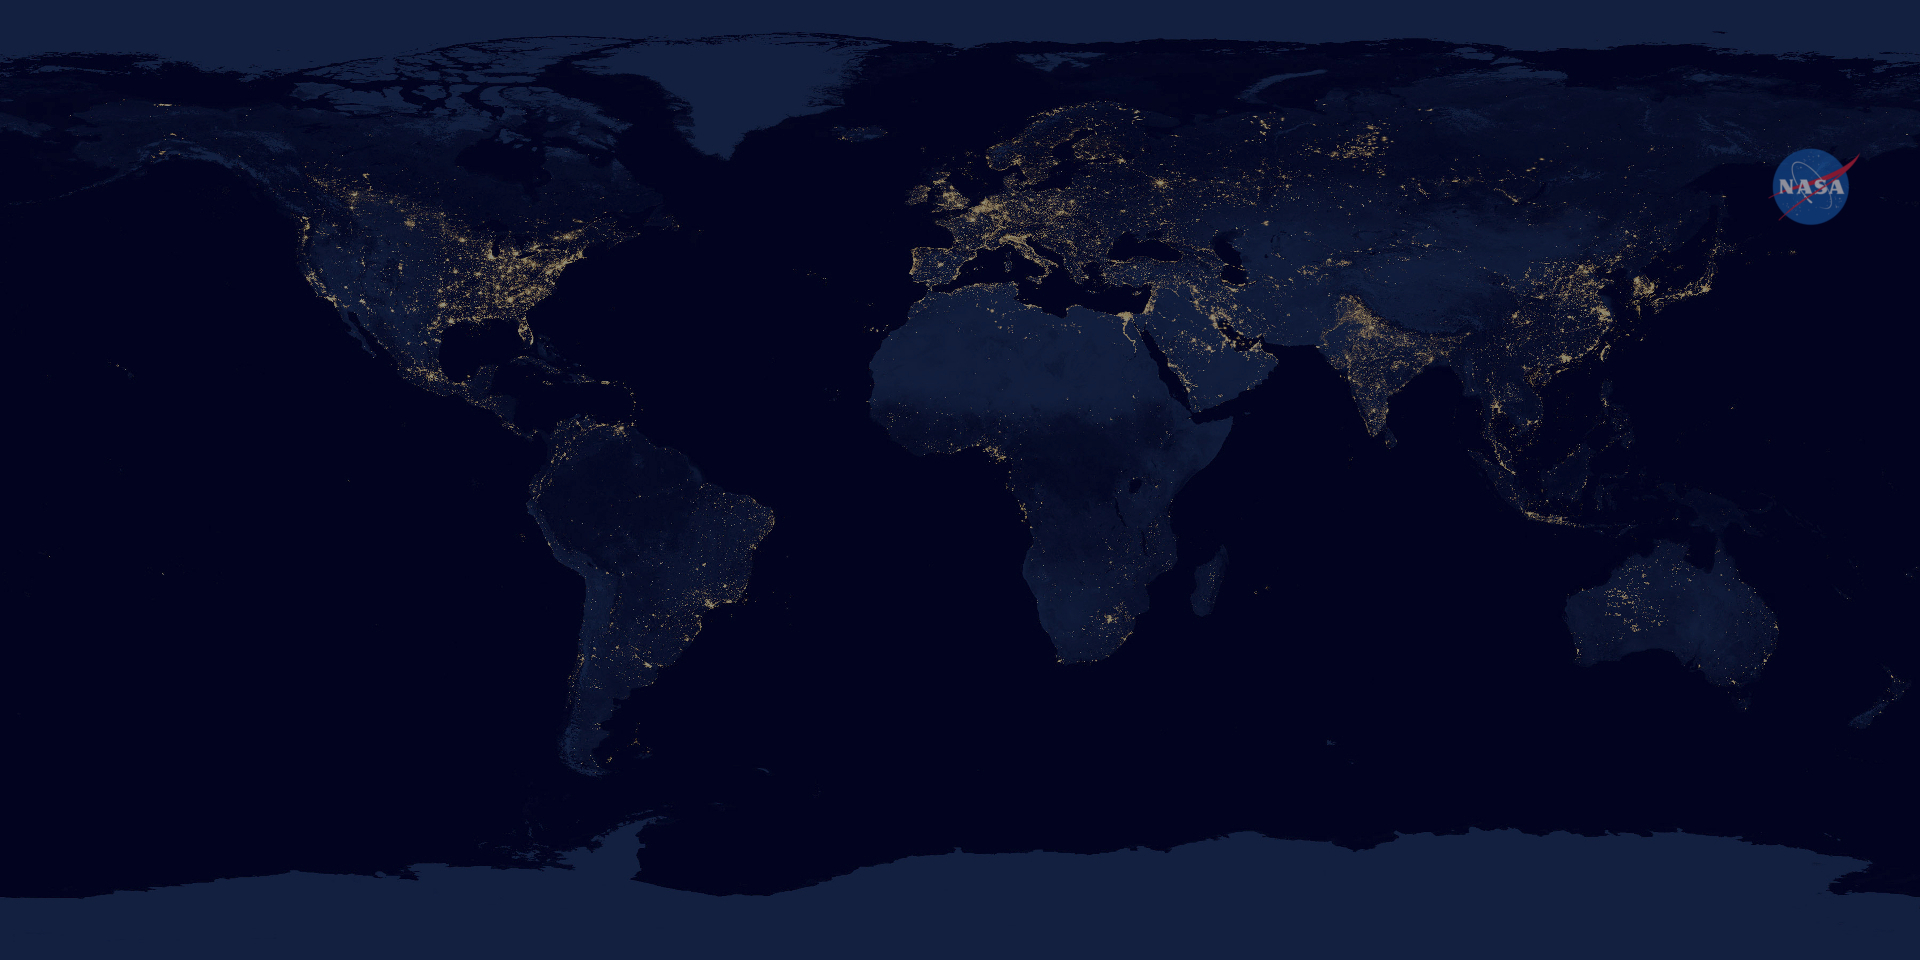
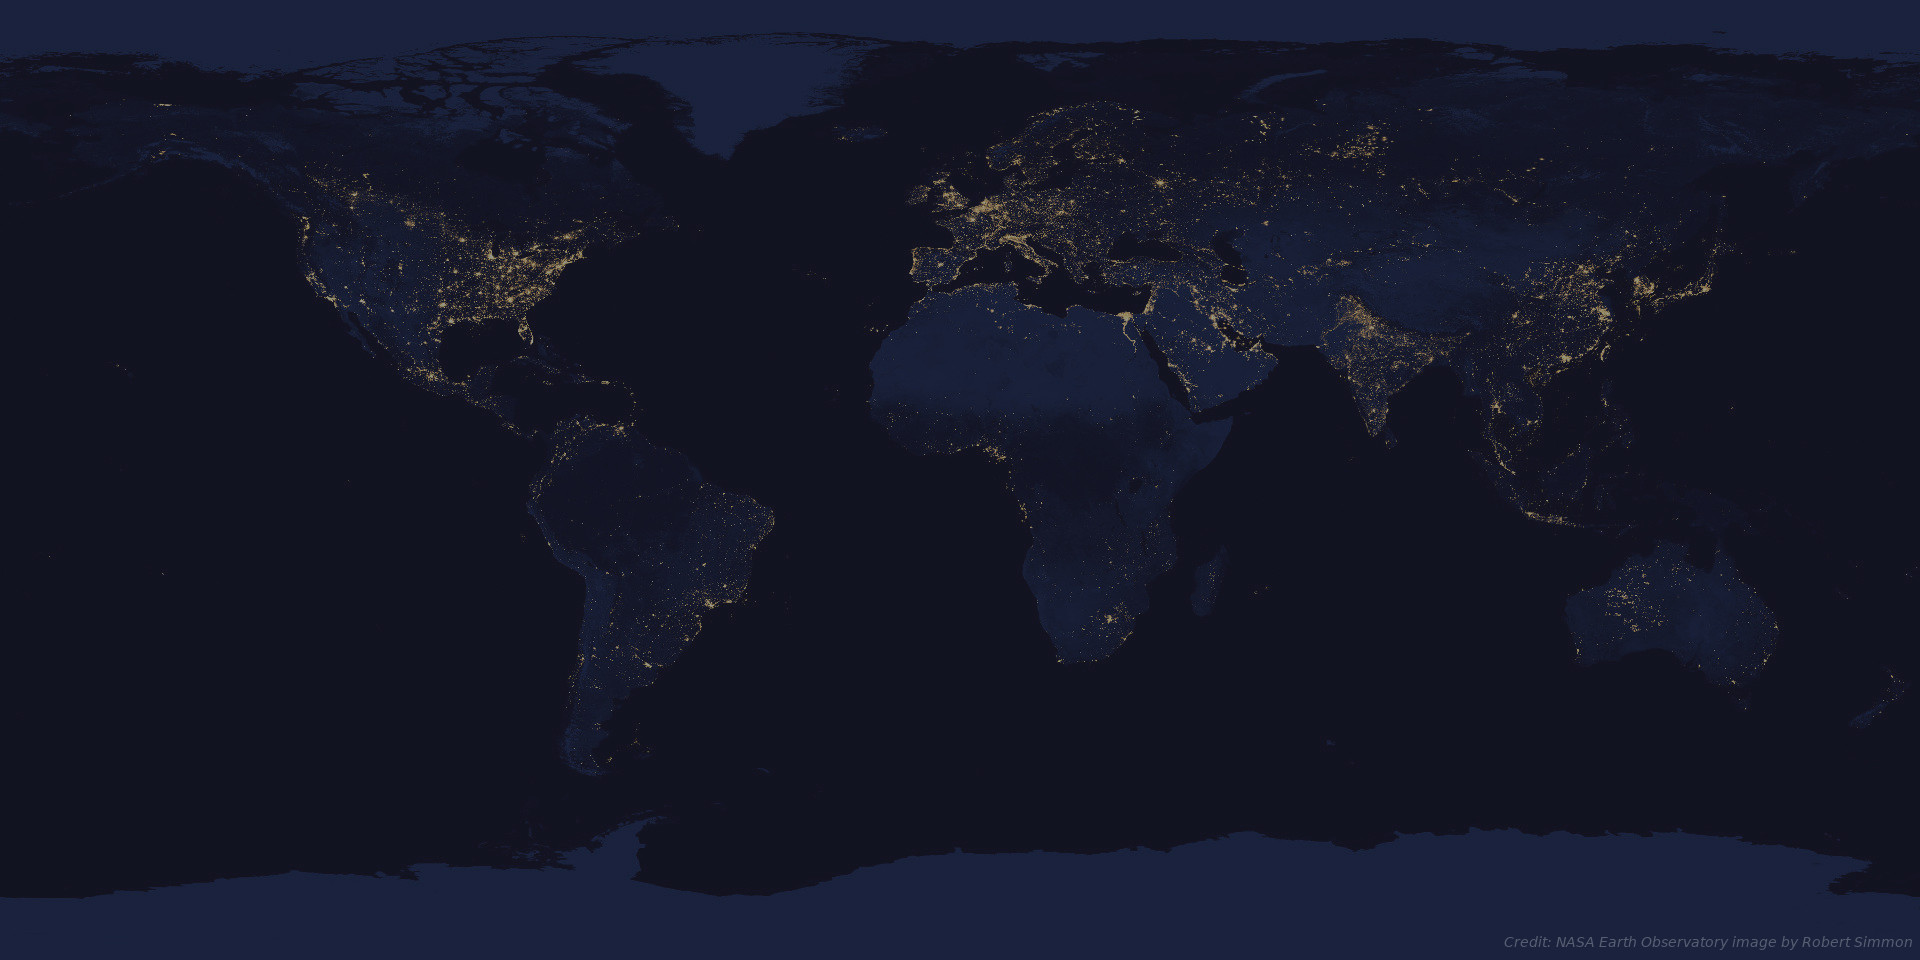
minor fixes: image credit update and wrong twitter account

Changed region(s): [[0.7812, 0.9688, 1.0, 1.0], [0.9062, 0.1562, 0.9688, 0.25], [0.5312, 0.2188, 0.5625, 0.25]]

diff --git a/index.html b/index.html
@@ -350,13 +350,12 @@
                                 <img class="img-circle" src="img/team/Sylvain.jpg" alt="">
                                 <h3 class="section-heading-center">Sylvain Pastor</h2>
                                 <p class ="lead-center">
-                                    <a href="https://twitter.com/SylvainPastor" target="_blank"><i class="fa fa-twitter fa-fw"></i></a>                                    
-				    <a href="https://www.linkedin.com/in/sylvain-pastor-aa8284b7/" target="_blank"><i class="fa fa-linkedin fa-fw"></i></a>
+                                    <a href="https://www.linkedin.com/in/sylvain-pastor-aa8284b7/" target="_blank"><i class="fa fa-linkedin fa-fw"></i></a>
                                 </p>
                                 <p class="lead-center">#IoT</p>
                             </div>
 
- 			    <div class="col-md-3">
+ 			                <div class="col-md-3">
                                 <img class="img-circle" src="img/team/David.jpg" alt="">
                                 <h3 class="section-heading-center">David Gener</h2>
                                 <p class ="lead-center">
